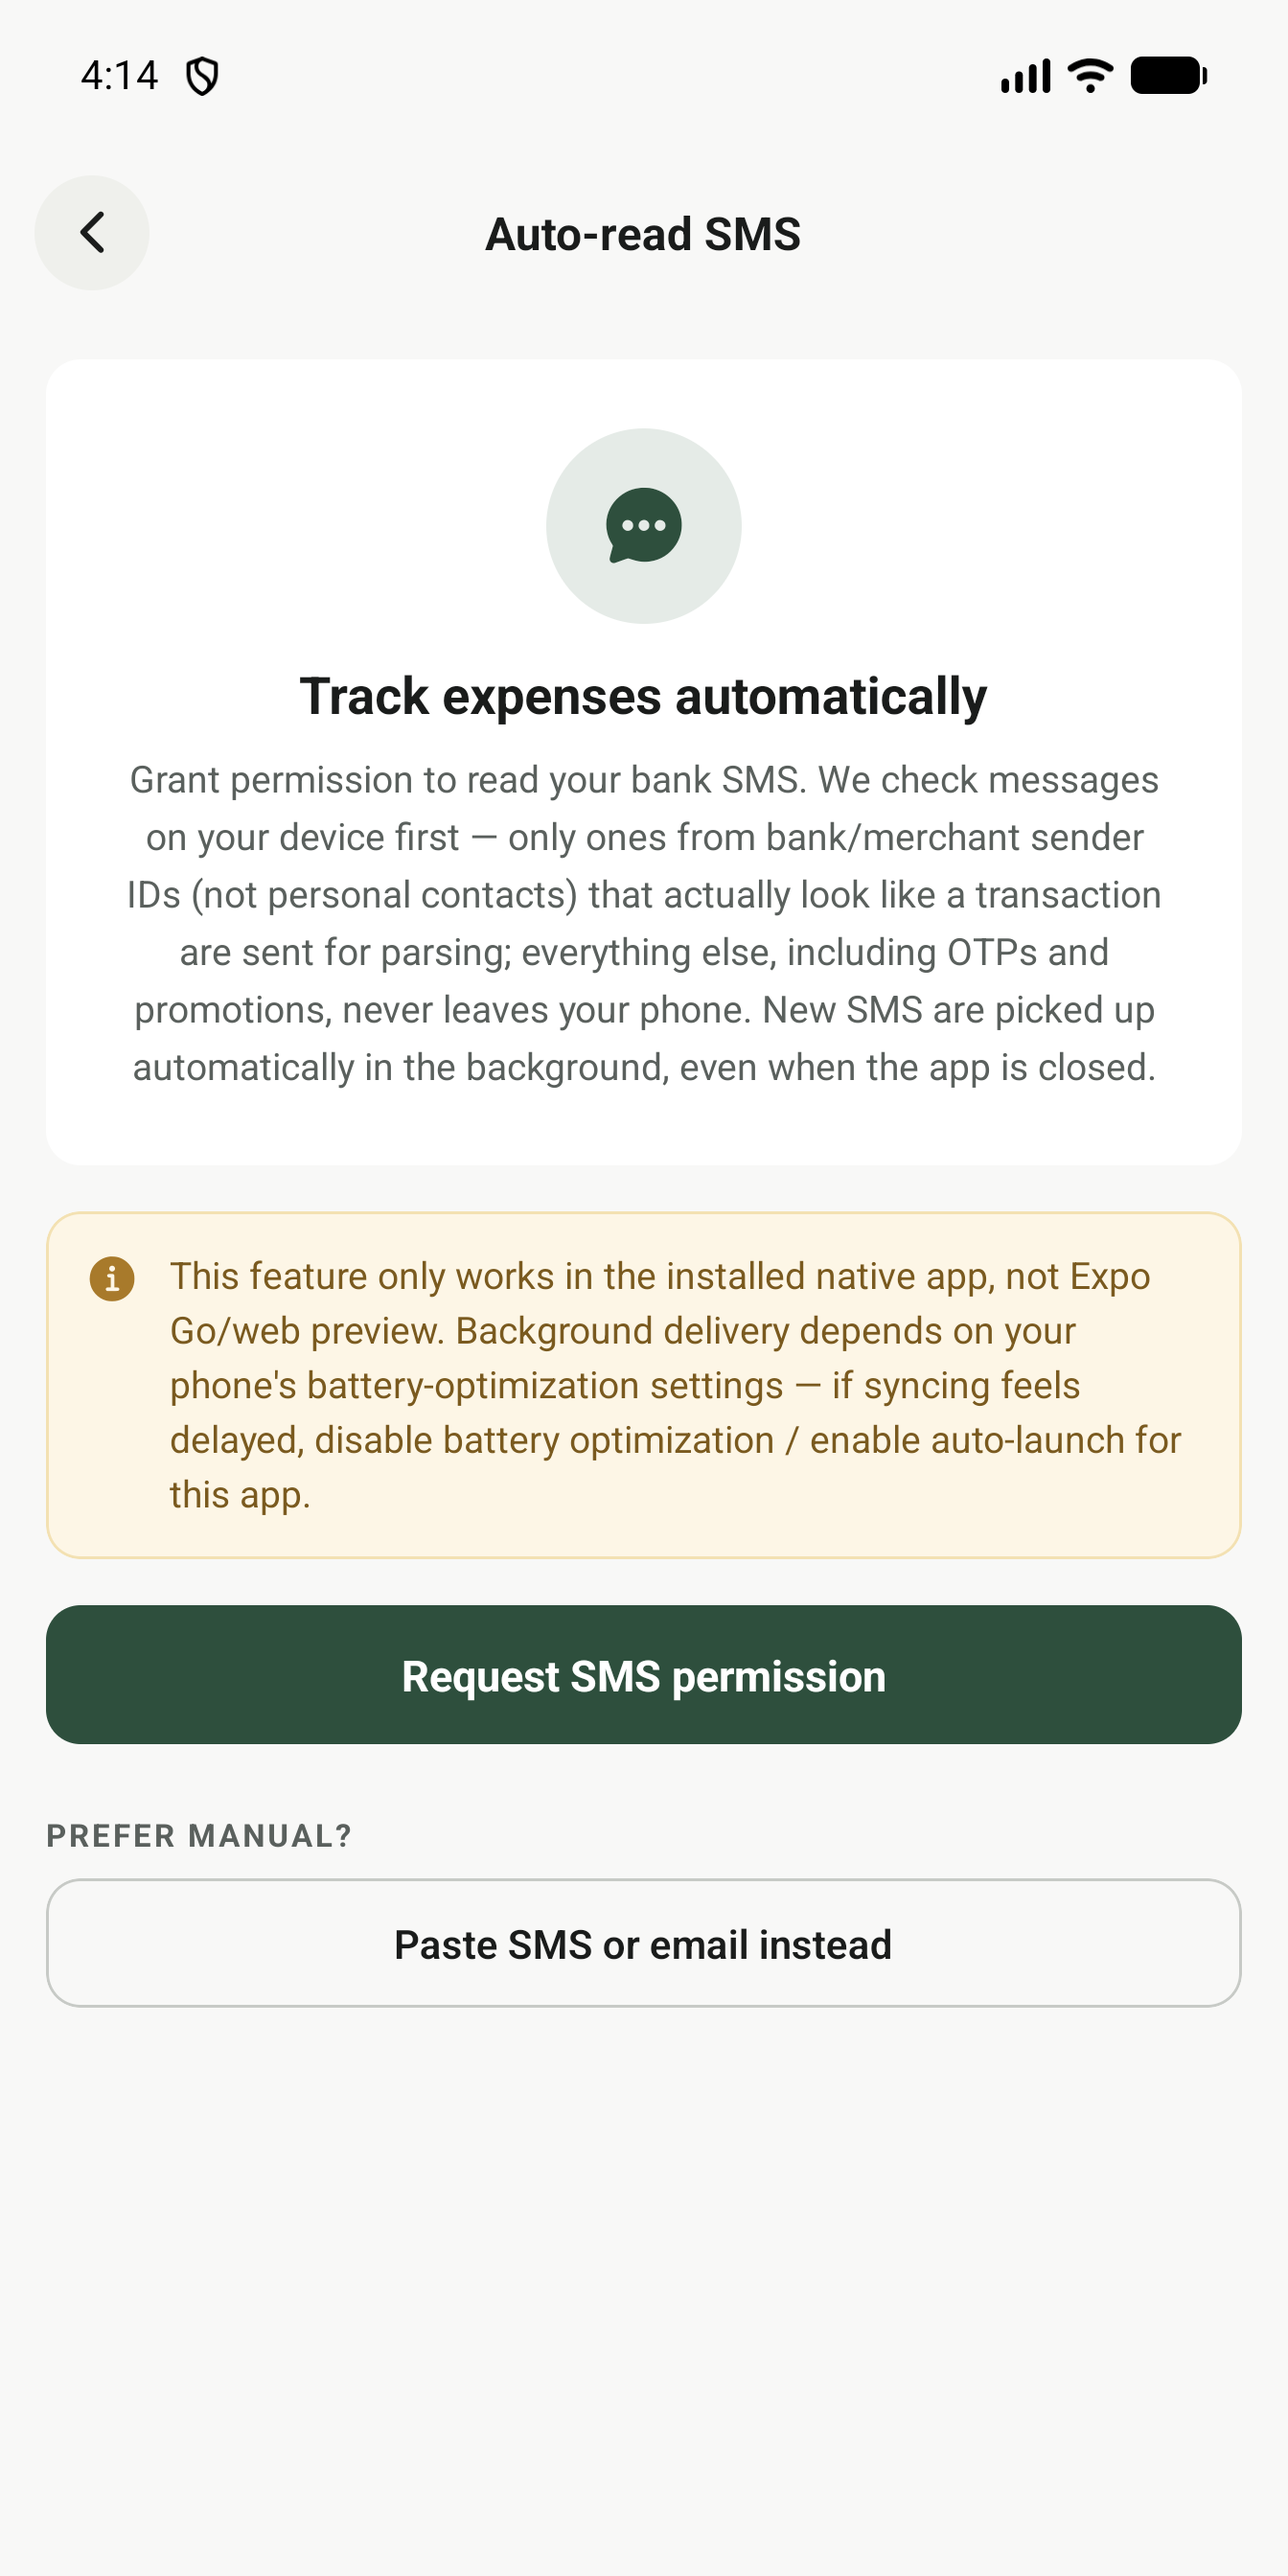
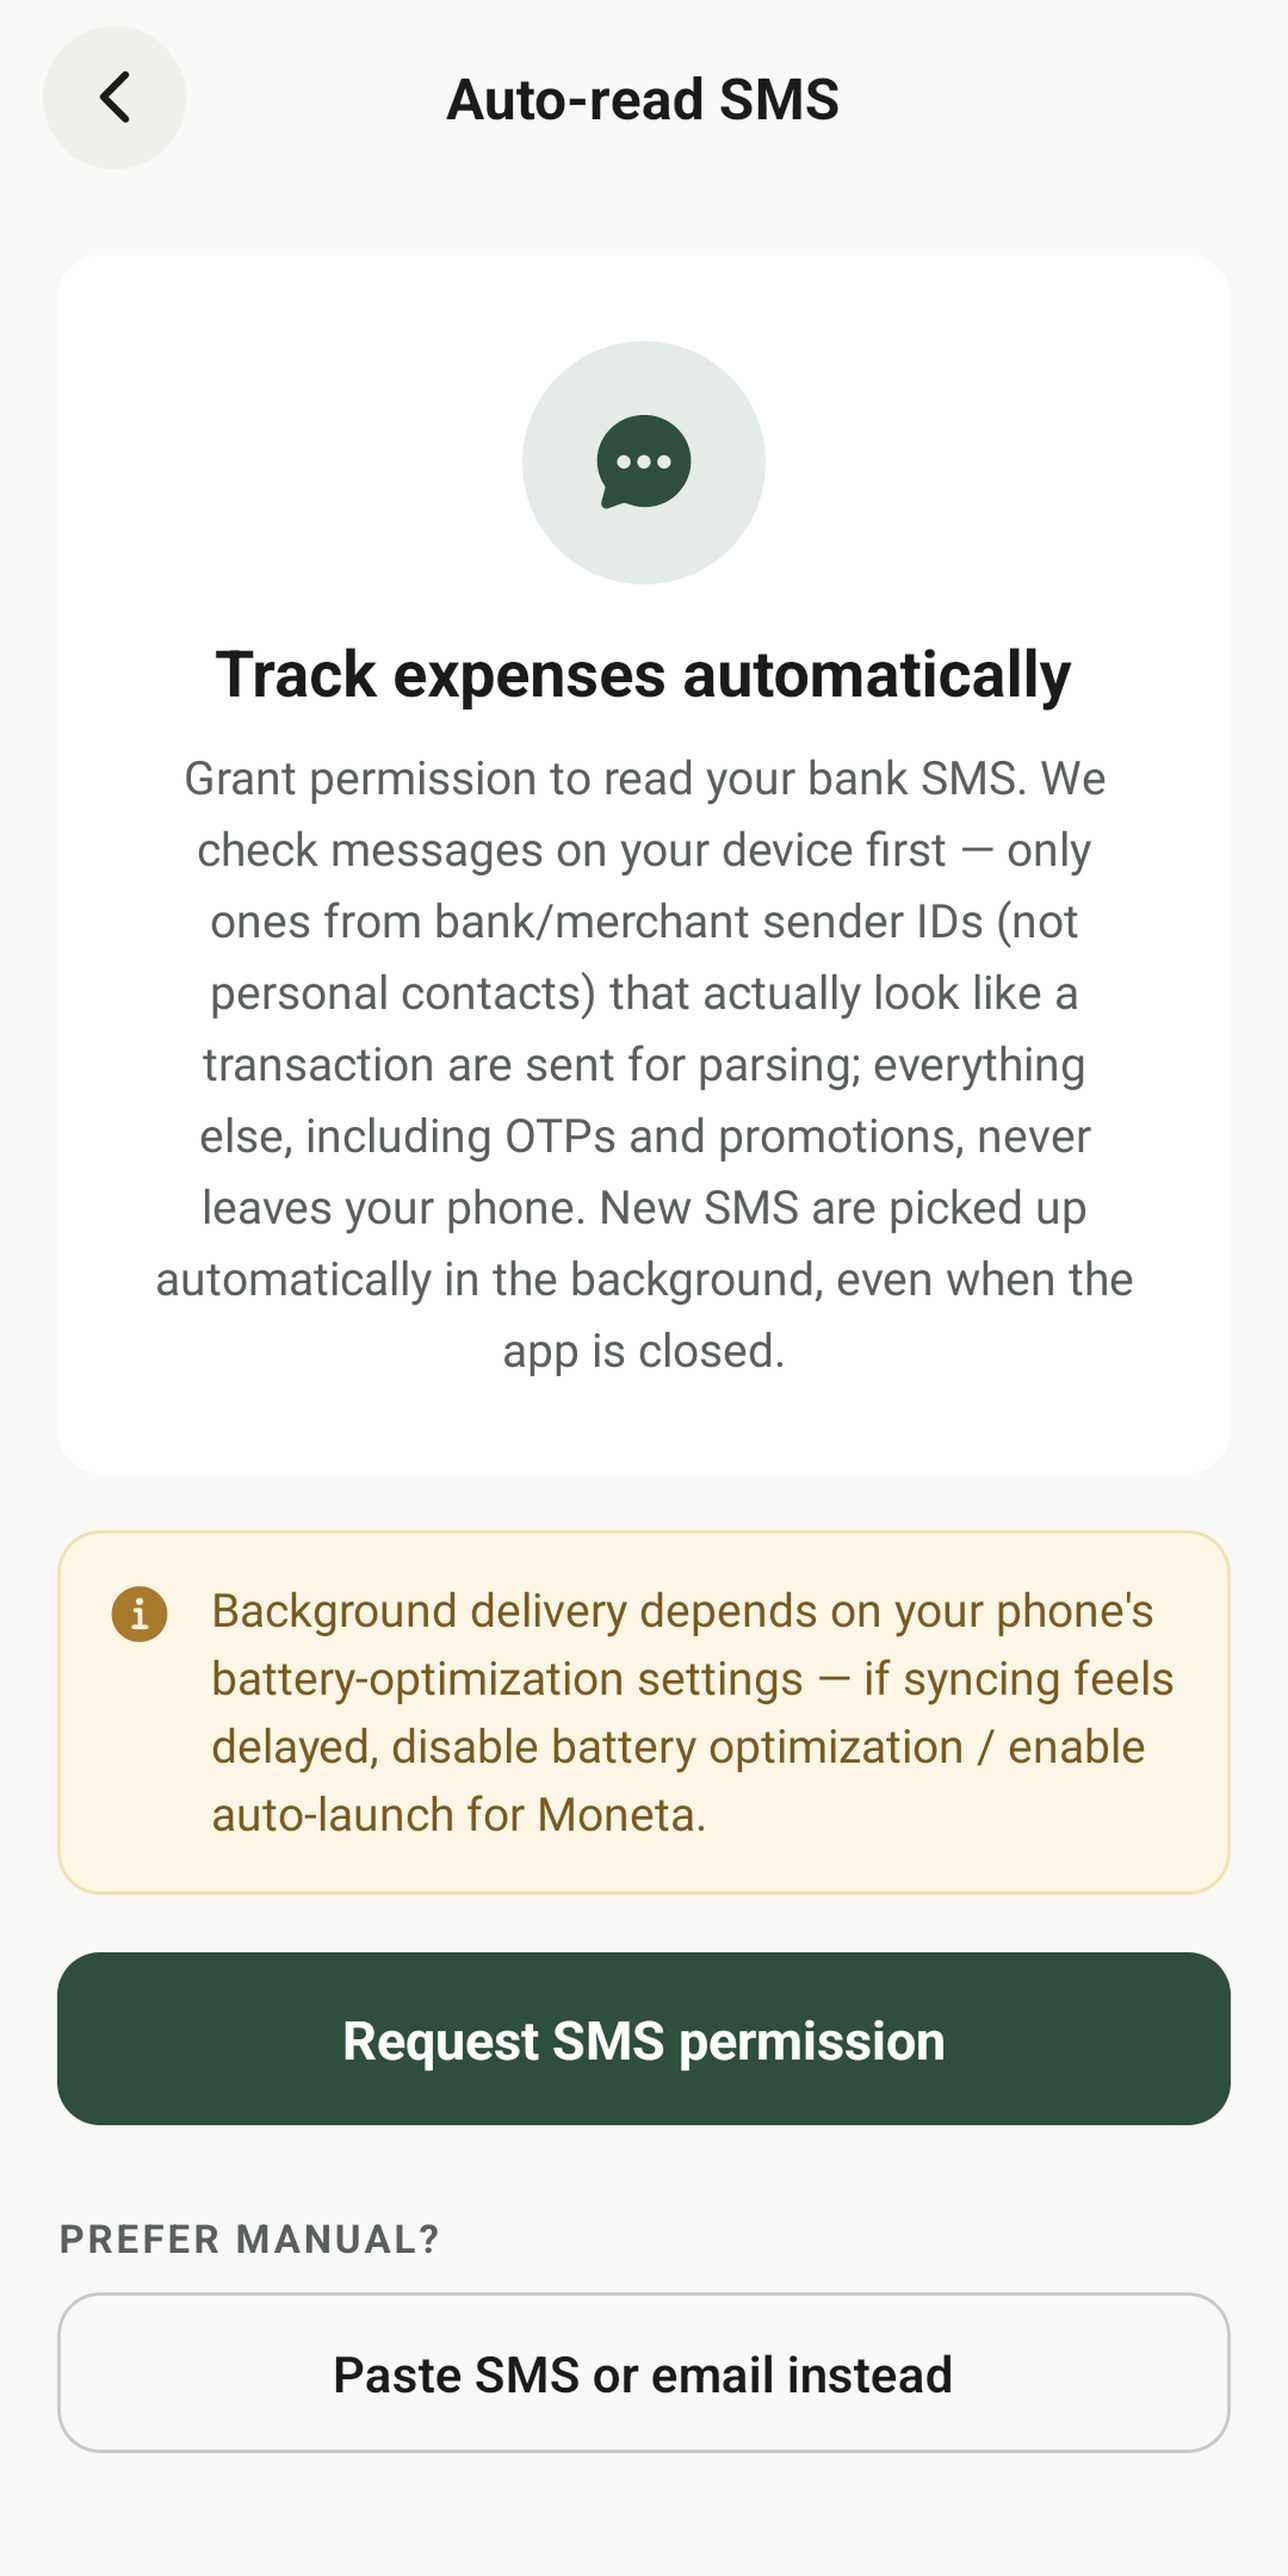
Bump versionCode to 3, remove developer-facing text from Settings and SMS screens, refresh SMS screenshot

diff --git a/frontend/app/(tabs)/settings.tsx b/frontend/app/(tabs)/settings.tsx
@@ -62,7 +62,7 @@ export default function Settings() {
               <Text style={styles.rowTitle}>Auto-read SMS</Text>
               <Text style={styles.rowSub}>Sync bank SMS from your phone</Text>
             </View>
-            <View style={styles.pillMuted}><Text style={styles.pillMutedText}>APK only</Text></View>
+            <Ionicons name="chevron-forward" size={18} color={theme.color.onSurfaceTertiary} />
           </Pressable>
 
           <View style={styles.divider} />
@@ -73,9 +73,9 @@ export default function Settings() {
             </View>
             <View style={{ flex: 1 }}>
               <Text style={styles.rowTitle}>Gmail sync</Text>
-              <Text style={styles.rowSub}>Auto-import bank emails (requires Google Cloud setup)</Text>
+              <Text style={styles.rowSub}>Auto-import bank emails</Text>
             </View>
-            <View style={styles.pillMuted}><Text style={styles.pillMutedText}>Soon</Text></View>
+            <View style={styles.pillMuted}><Text style={styles.pillMutedText}>Coming soon</Text></View>
           </View>
         </View>
 

diff --git a/frontend/app/sms-sync.tsx b/frontend/app/sms-sync.tsx
@@ -86,10 +86,9 @@ export default function SmsSyncScreen() {
         <View style={styles.warnCard} testID="sms-warning">
           <Ionicons name="information-circle" size={20} color={theme.color.warning} />
           <Text style={styles.warnText}>
-            This feature only works in the installed native app, not Expo Go/web preview.
             Background delivery depends on your phone's battery-optimization settings —
             if syncing feels delayed, disable battery optimization / enable auto-launch
-            for this app.
+            for Moneta.
           </Text>
         </View>
 
